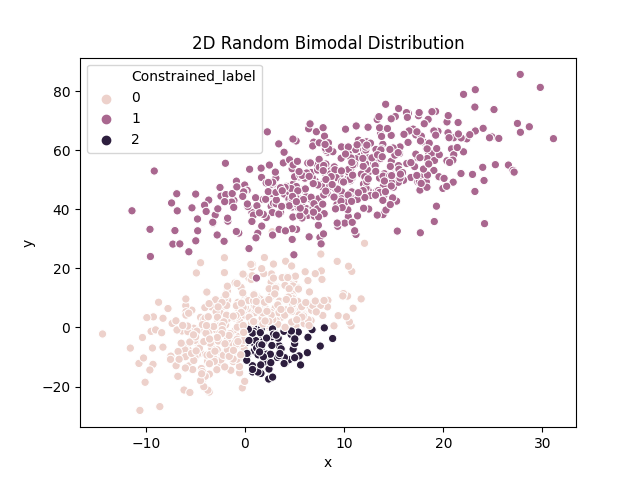
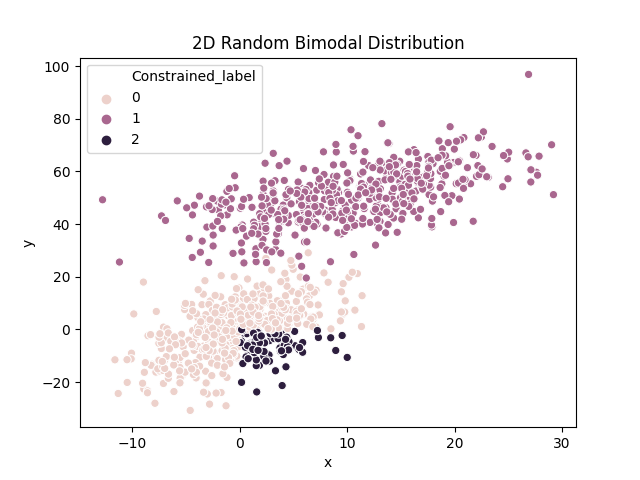
new image

diff --git a/kmeans_implementation.py b/kmeans_implementation.py
@@ -96,9 +96,19 @@ class Kmeans:
         return centroids
 
     def compute_distance(self, X, centroids, condition):
-        distance = np.zeros((self.X_normal.shape[0], self.n_clusters - 1))
+        X_condition = X[
+            (eval("X[:,0] " + self.condition[0]))
+            & (eval("X[:,1] " + self.condition[1]))
+        ]
+        X_normal = X[
+            ~(
+                (eval("X[:,0] " + self.condition[0]))
+                & (eval("X[:,1] " + self.condition[1]))
+            )
+        ]
+        distance = np.zeros((X_normal.shape[0], self.n_clusters - 1))
         for k in range(self.n_clusters - 1):
-            row_norm = norm(self.X_normal - centroids[k, :], axis=1)
+            row_norm = norm(X_normal - centroids[k, :], axis=1)
             distance[:, k] = np.square(row_norm)
         return distance
 
@@ -165,17 +175,37 @@ class Kmeans:
         )
 
     def predict(self, X):
-        distance = self.compute_distance(X, self.old_centroids, self.condition)
-        return self.find_closest_cluster(distance)
+        X_condition = X[
+            (eval("X[:,0] " + self.condition[0]))
+            & (eval("X[:,1] " + self.condition[1]))
+        ]
+        X_normal = X[
+            ~(
+                (eval("X[:,0] " + self.condition[0]))
+                & (eval("X[:,1] " + self.condition[1]))
+            )
+        ]
+
+        distance = self.compute_distance(X_normal, self.old_centroids, self.condition)
+        labels = self.find_closest_cluster(distance)
+        labels_condition = np.array([self.n_clusters for i in range(len(X_condition))])
+        labels_result = np.concatenate((labels, labels_condition))
+        data_result = np.concatenate((X_normal, X_condition))
+        return (data_result, labels_result)
 
 
 km = Kmeans(3, ["> 0", "< 0"], max_iter=100, random_state=123)
 km.fit(final_data, final_data_label)
+result = km.predict(final_data)
 # print(km.result_data)
-print(km.centroids)
+# print(km.centroids)
 
 sns.scatterplot(
     x=km.result_data[:, 0], y=km.result_data[:, 1], hue=km.final_labels, legend=False
 ).set_title("Output Clusters")
-sns.scatterplot(x=km.centroids[:, 0], y=km.centroids[:, 1], legend=False)
 plt.savefig("./KMeans_Output.png")
+
+sns.scatterplot(
+    x=result[0][:, 0], y=result[0][:, 1], hue=result[1], legend=False
+).set_title("Predict Clusters")
+plt.savefig("./KMeans_Predict_Output.png")
